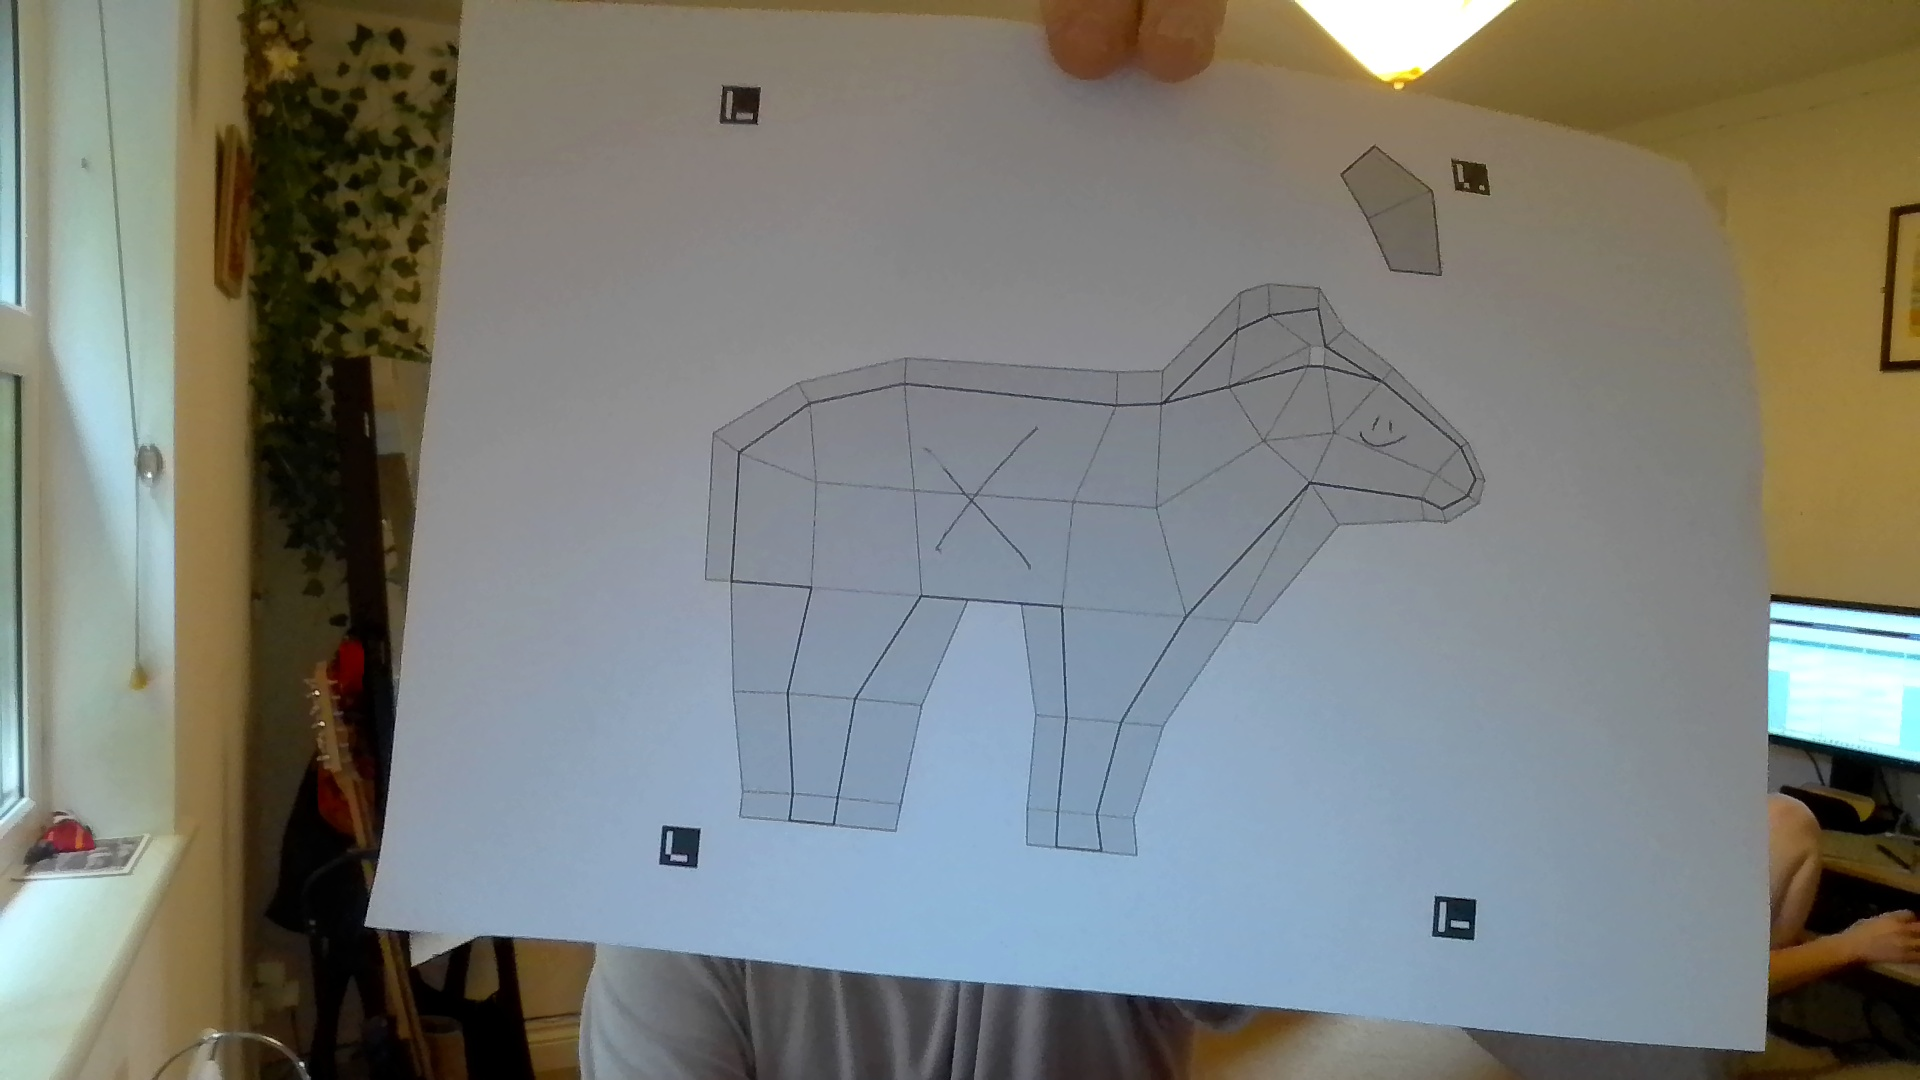
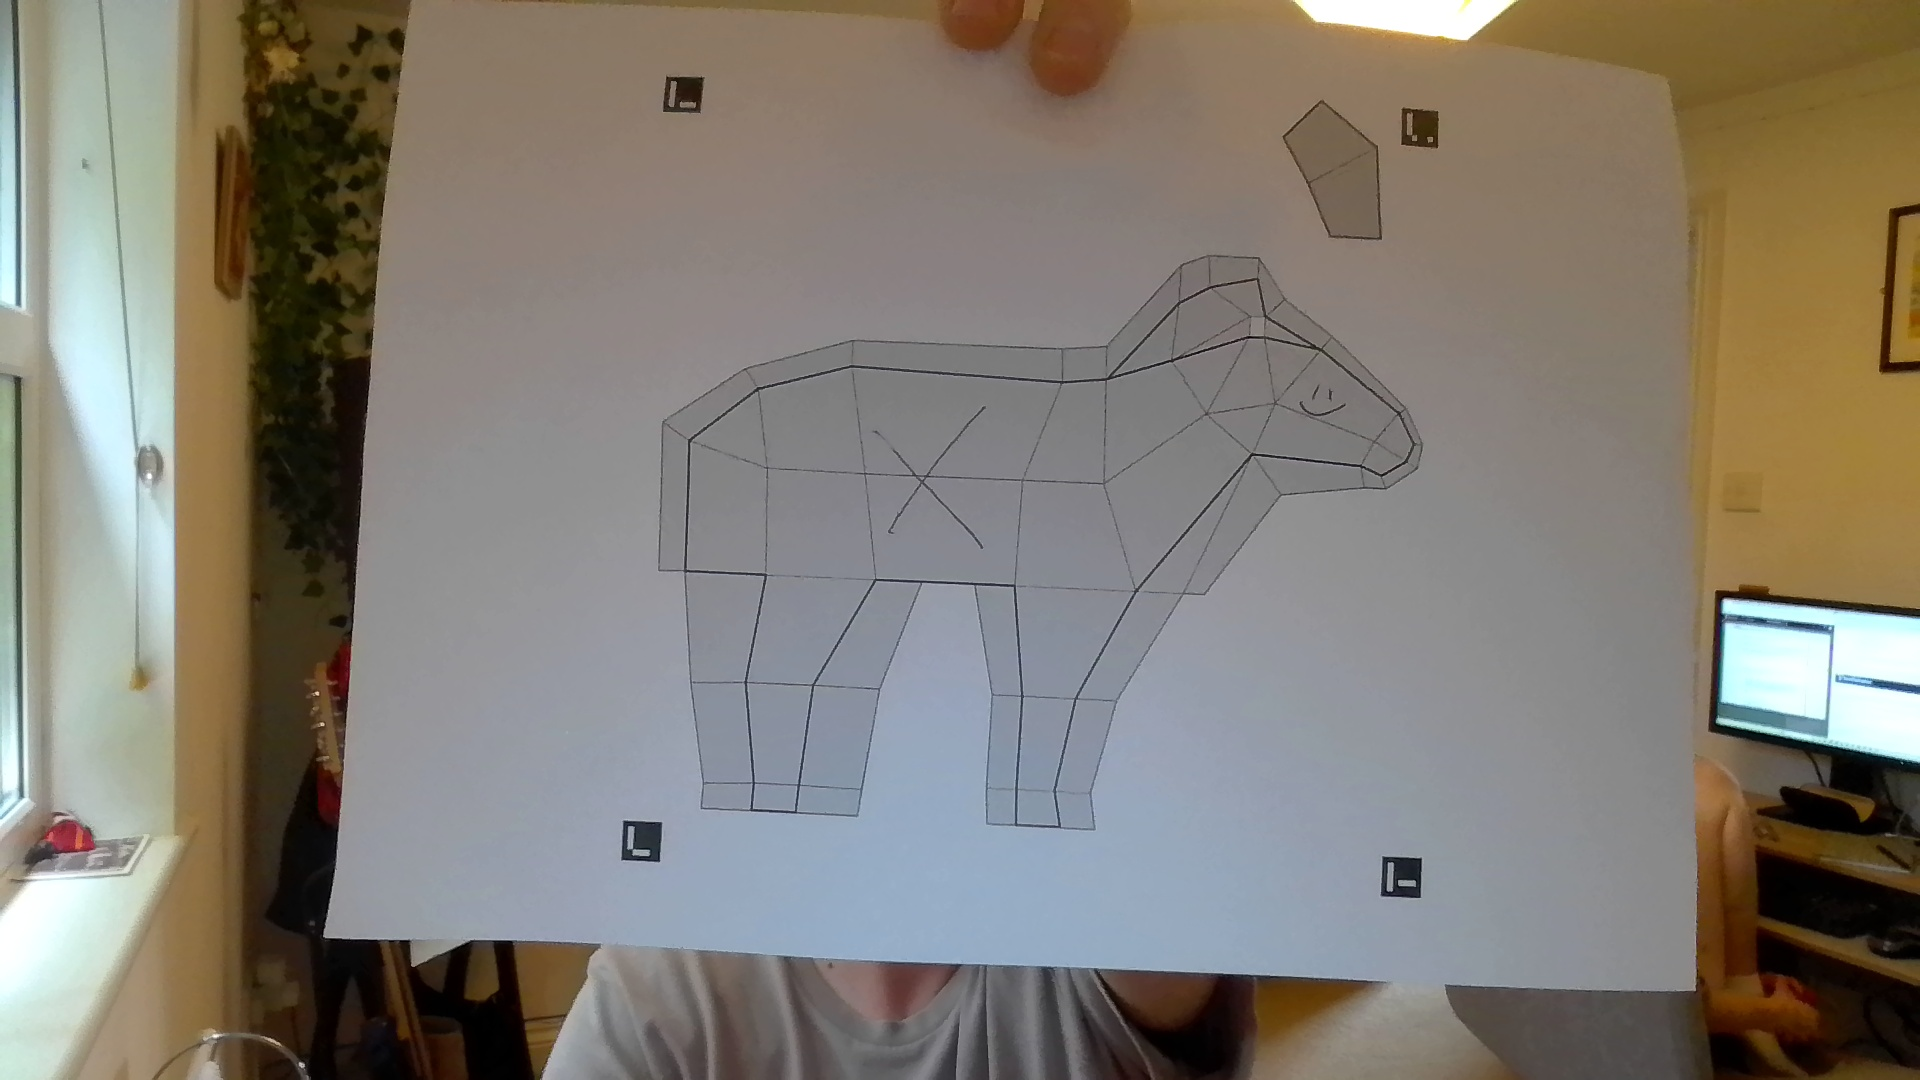
a

diff --git a/docs/index.html b/docs/index.html
@@ -7,16 +7,65 @@
     <script src="https://cdn.babylonjs.com/babylon.js"></script>
     <script src="https://cdn.babylonjs.com/loaders/babylonjs.loaders.min.js"></script>
     <style>
-        body { margin: 0; padding: 0; display: flex; font-family: sans-serif; background: #1a1a1a; color: #fff; }
-        #sidebar { width: 320px; padding: 20px; background: #252525; height: 100vh; box-sizing: border-box; display: flex; flex-direction: column; gap: 15px; }
-        #renderCanvas { flex: 1; height: 100vh; touch-action: none; outline: none; }
-        input, select, button { width: 100%; padding: 10px; background: #333; color: #fff; border: 1px solid #444; border-radius: 4px; box-sizing: border-box; }
-        button { cursor: pointer; font-weight: bold; background: #007acc; border: none; }
+        html, body {
+            margin: 0;
+            padding: 0;
+            width: 100%;
+            height: 100%;
+            overflow: hidden;
+            display: flex;
+            font-family: sans-serif;
+            background: #1a1a1a;
+            color: #fff;
+        }
+        #sidebar {
+            width: 320px;
+            padding: 20px;
+            background: #252525;
+            height: 100%;
+            box-sizing: border-box;
+            display: flex;
+            flex-direction: column;
+            gap: 15px;
+            z-index: 10;
+        }
+        #renderCanvas {
+            flex: 1;
+            height: 100%;
+            display: block;
+            touch-action: none;
+            outline: none;
+        }
+        input, select, button {
+            width: 100%;
+            padding: 10px;
+            background: #333;
+            color: #fff;
+            border: 1px solid #444;
+            border-radius: 4px;
+            box-sizing: border-box;
+        }
+        button {
+            cursor: pointer;
+            font-weight: bold;
+            background: #007acc;
+            border: none;
+        }
         button:hover { background: #005999; }
         button.secondary { background: #444; }
         button.secondary:hover { background: #555; }
         .anim-group { display: flex; gap: 10px; }
-        #log { background: #000; font-family: monospace; font-size: 11px; padding: 10px; height: 120px; overflow-y: auto; color: #00ff00; border-radius: 4px; }
+        #log {
+            background: #000;
+            font-family: monospace;
+            font-size: 11px;
+            padding: 10px;
+            height: 140px;
+            overflow-y: auto;
+            color: #00ff00;
+            border-radius: 4px;
+            box-sizing: border-box;
+        }
     </style>
 </head>
 <body>
@@ -52,12 +101,13 @@
     <script>
         const canvas = document.getElementById("renderCanvas");
         const engine = new BABYLON.Engine(canvas, true);
-        let scene, currentMesh = null, activeAnimGroup = null;
+        let scene, camera, loadedNodes = [], activeAnimGroup = null;
 
         // State variables
         let isHighPolyMode = false;
         let selectedZebraName = "";
         let availableZebras = [];
+        let isSpinning = true;
 
         function log(msg) {
             const l = document.getElementById("log");
@@ -69,7 +119,7 @@
             const s = new BABYLON.Scene(engine);
             s.clearColor = new BABYLON.Color4(0.1, 0.1, 0.1, 1.0);
 
-            const camera = new BABYLON.ArcRotateCamera("camera", Math.PI / 2, Math.PI / 3, 3, new BABYLON.Vector3(0, 0.5, 0), s);
+            camera = new BABYLON.ArcRotateCamera("camera", Math.PI / 2, Math.PI / 3, 3, new BABYLON.Vector3(0, 0, 0), s);
             camera.attachControl(canvas, true);
             camera.wheelPrecision = 50;
 
@@ -78,6 +128,15 @@
             const light2 = new BABYLON.DirectionalLight("light2", new BABYLON.Vector3(-1, -2, -1), s);
             light2.intensity = 0.8;
 
+            // Slow Turntable Rotation
+            s.registerBeforeRender(() => {
+                if (isSpinning && camera) {
+                    camera.alpha += 0.003;
+                }
+            });
+
+            canvas.addEventListener("pointerdown", () => { isSpinning = false; });
+
             return s;
         };
 
@@ -85,11 +144,9 @@
 
         async function fetchTexturesList() {
             try {
-                // Fetch list from repo contents API or fallback local array
                 const response = await fetch("https://api.github.com/repos/jm1d22/ColourableZebra3D/contents/docs/assets/textures");
                 const data = await response.json();
                 
-                // Filter out _HighPoly suffixes and extract base zebra names
                 const namesSet = new Set();
                 data.forEach(file => {
                     if (file.name.endsWith(".jpg") || file.name.endsWith(".png")) {
@@ -127,10 +184,9 @@
         }
 
         function loadModelAndTexture() {
-            if (currentMesh) {
-                currentMesh.dispose();
-                currentMesh = null;
-            }
+            loadedNodes.forEach(node => node.dispose());
+            loadedNodes = [];
+
             if (activeAnimGroup) {
                 activeAnimGroup.stop();
                 activeAnimGroup = null;
@@ -141,33 +197,66 @@
             
             log(`Loading ${modelFile}...`);
 
-            BABYLON.SceneLoader.ImportMesh("", "./assets/model/", `${modelFile}?v=${Date.now()}`, scene, function (meshes, particleSystems, skeletons, animationGroups) {
-                currentMesh = meshes[0];
-                log(`Loaded ${modelFile} successfully.`);
+            BABYLON.SceneLoader.ImportMesh(
+                "",
+                "./assets/model/",
+                modelFile,
+                scene,
+                function (meshes, particleSystems, skeletons, animationGroups) {
+                    loadedNodes = meshes;
+                    log(`Loaded ${modelFile} successfully.`);
 
-                // Handle Animations if High-Poly mode
-                const animControls = document.getElementById("animControls");
-                if (isHighPolyMode && animationGroups && animationGroups.length > 0) {
-                    animControls.style.display = "block";
-                    activeAnimGroup = animationGroups[0];
-                    activeAnimGroup.play(true);
-                } else {
-                    animControls.style.display = "none";
-                }
+                    // Center of Volume Framing
+                    let min = new BABYLON.Vector3(Number.MAX_VALUE, Number.MAX_VALUE, Number.MAX_VALUE);
+                    let max = new BABYLON.Vector3(-Number.MAX_VALUE, -Number.MAX_VALUE, -Number.MAX_VALUE);
+                    let validMeshFound = false;
 
-                // Apply Baked / Original Texture
-                const texturePath = `./assets/textures/${textureFile}?v=${Date.now()}`;
-                const mat = new BABYLON.StandardMaterial("zebraMat", scene);
-                mat.diffuseTexture = new BABYLON.Texture(texturePath, scene);
-                mat.specularColor = new BABYLON.Color3(0.1, 0.1, 0.1);
+                    meshes.forEach(m => {
+                        if (m.getTotalVertices && m.getTotalVertices() > 0) {
+                            m.computeWorldMatrix(true);
+                            const bounds = m.getBoundingInfo().boundingBox;
+                            min = BABYLON.Vector3.Minimize(min, bounds.minimumWorld);
+                            max = BABYLON.Vector3.Maximize(max, bounds.maximumWorld);
+                            validMeshFound = true;
+                        }
+                    });
 
-                meshes.forEach(m => {
-                    if (m.material) {
-                        m.material = mat;
+                    if (validMeshFound) {
+                        const center = BABYLON.Vector3.Center(min, max);
+                        const distance = BABYLON.Vector3.Distance(min, max);
+
+                        camera.setTarget(center);
+                        camera.radius = distance * 1.6;
                     }
-                });
-                log(`Applied texture: ${textureFile}`);
-            });
+
+                    // Handle Animations for High-Poly mode
+                    const animControls = document.getElementById("animControls");
+                    if (isHighPolyMode && animationGroups && animationGroups.length > 0) {
+                        animControls.style.display = "block";
+                        activeAnimGroup = animationGroups[0];
+                        activeAnimGroup.play(true);
+                    } else {
+                        animControls.style.display = "none";
+                    }
+
+                    // Apply Swapped Texture
+                    const texturePath = `./assets/textures/${textureFile}?v=${Date.now()}`;
+                    const mat = new BABYLON.StandardMaterial("zebraMat", scene);
+                    mat.diffuseTexture = new BABYLON.Texture(texturePath, scene);
+                    mat.specularColor = new BABYLON.Color3(0.1, 0.1, 0.1);
+
+                    meshes.forEach(m => {
+                        if (m.getTotalVertices && m.getTotalVertices() > 0) {
+                            m.material = mat;
+                        }
+                    });
+                    log(`Applied texture: ${textureFile}`);
+                },
+                null,
+                function (scene, message, exception) {
+                    log(`[ERROR] Failed to load ${modelFile}: ${message}`);
+                }
+            );
         }
 
         // Event Listeners
